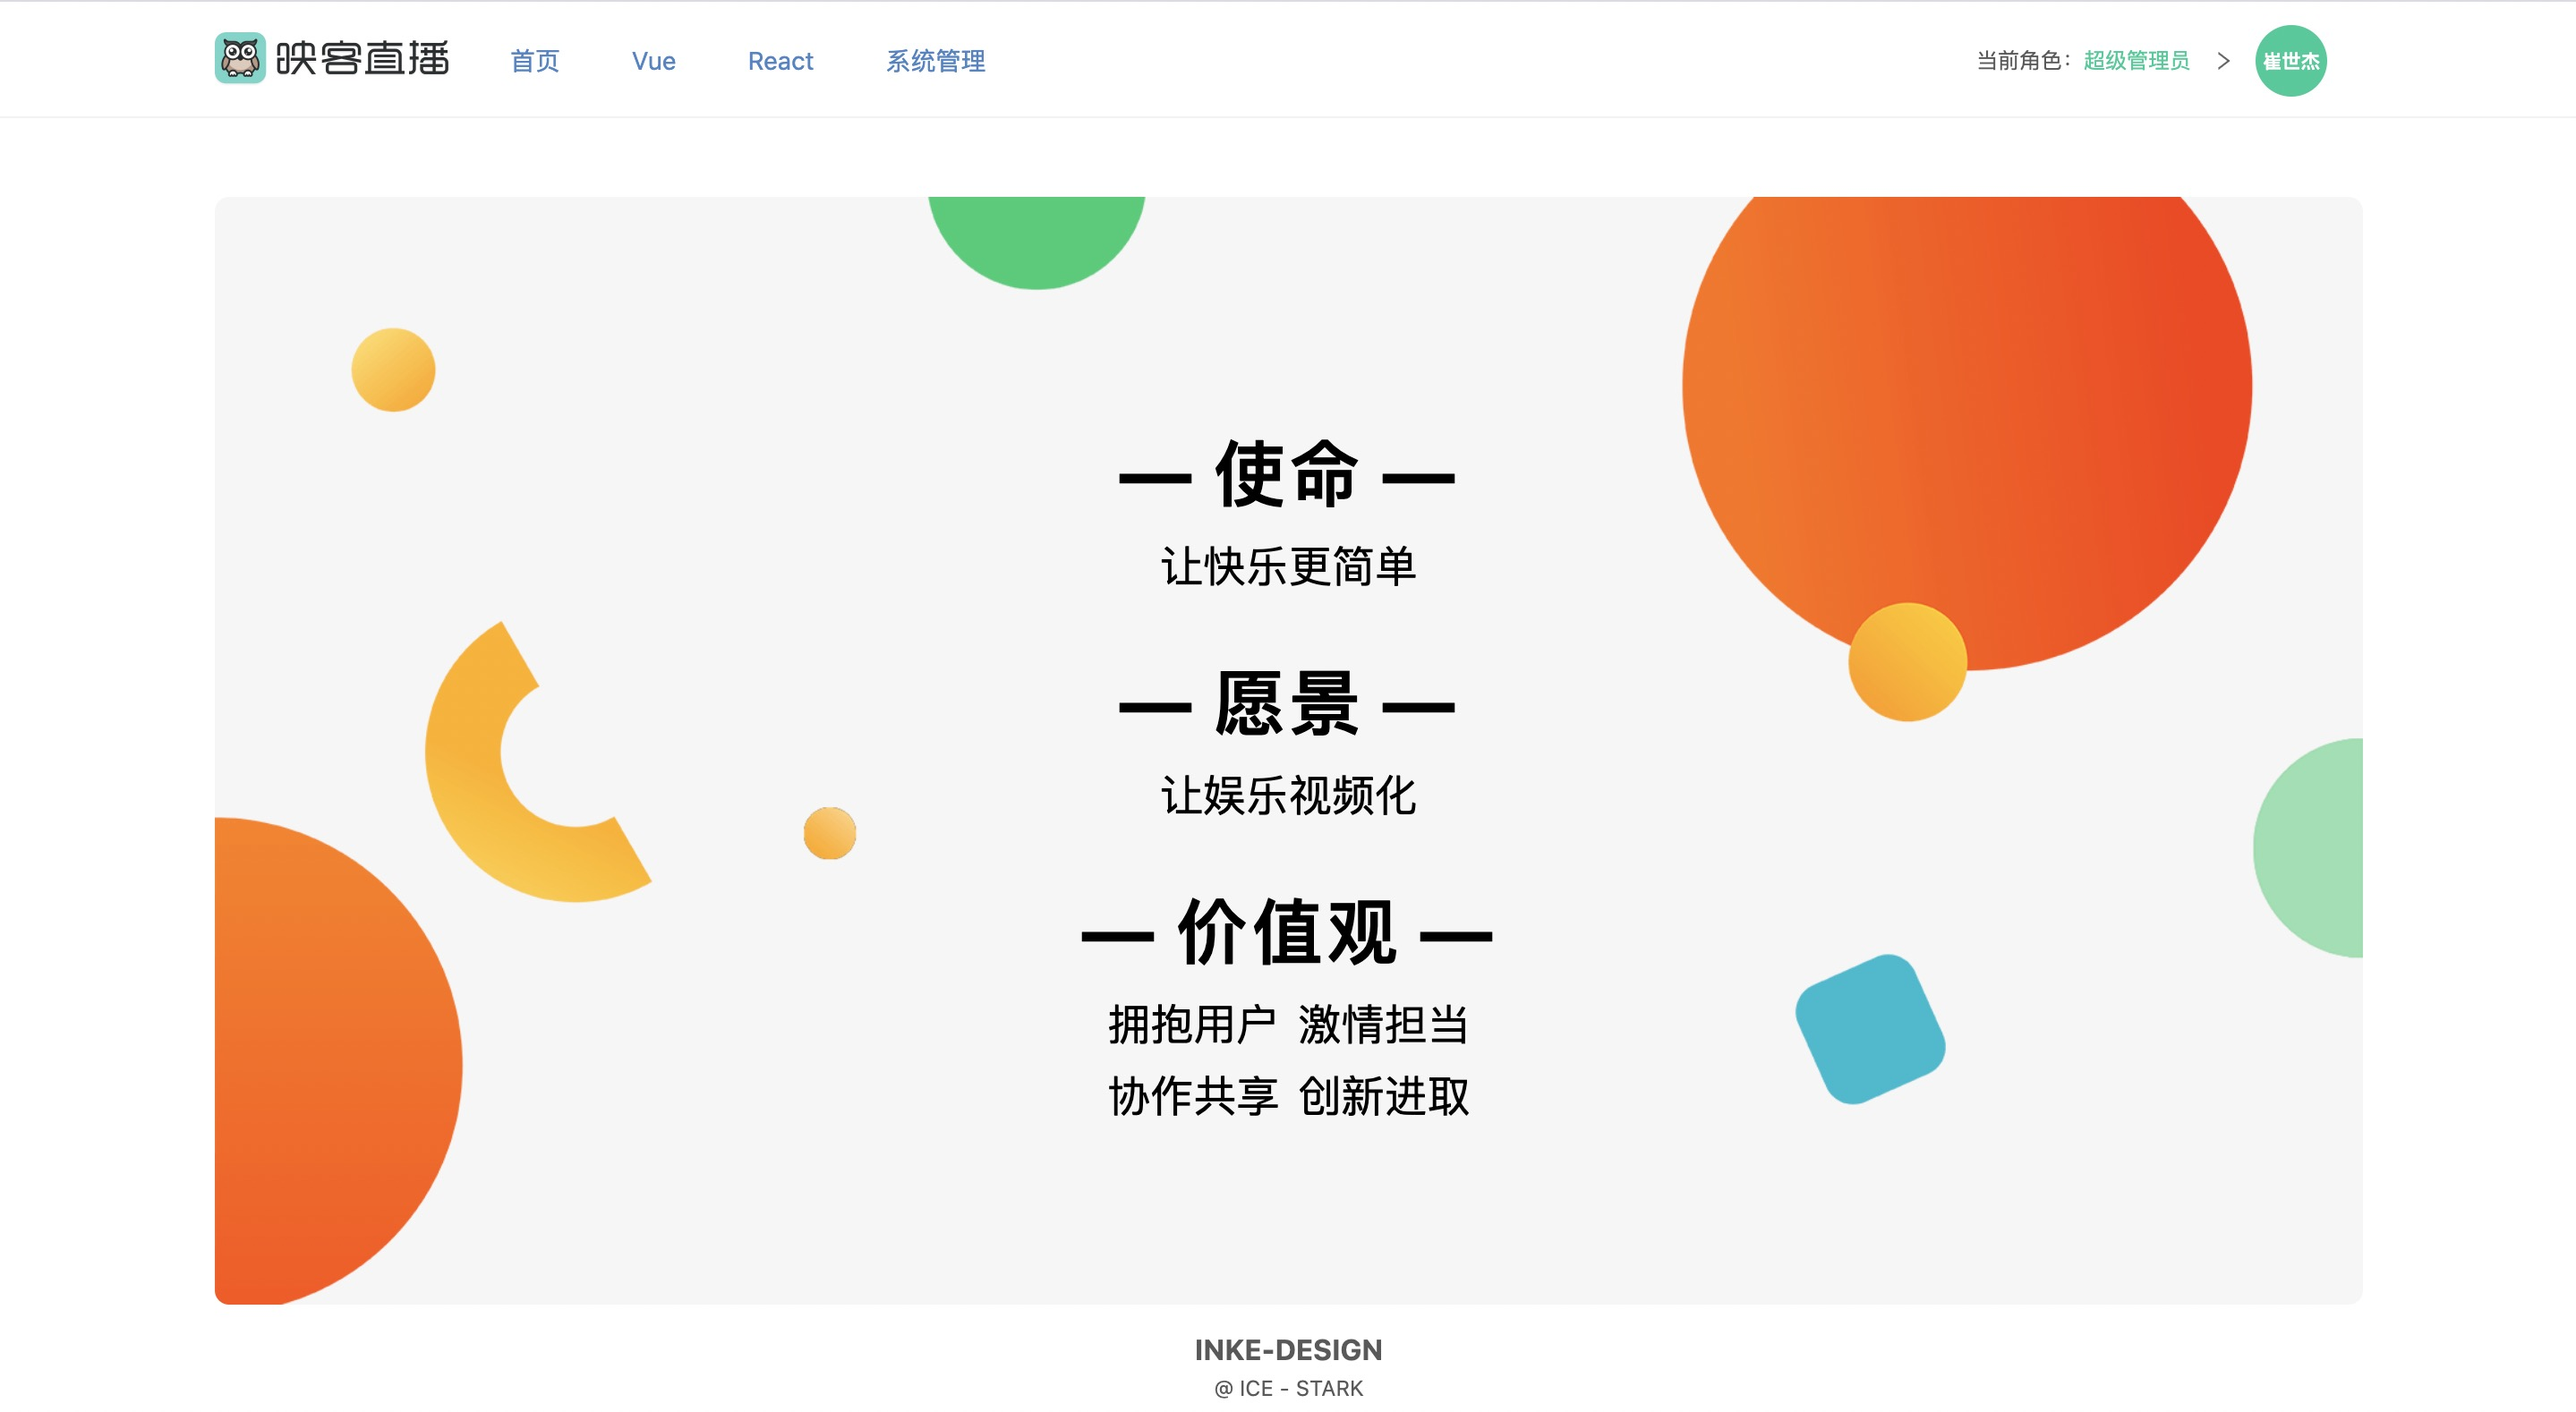
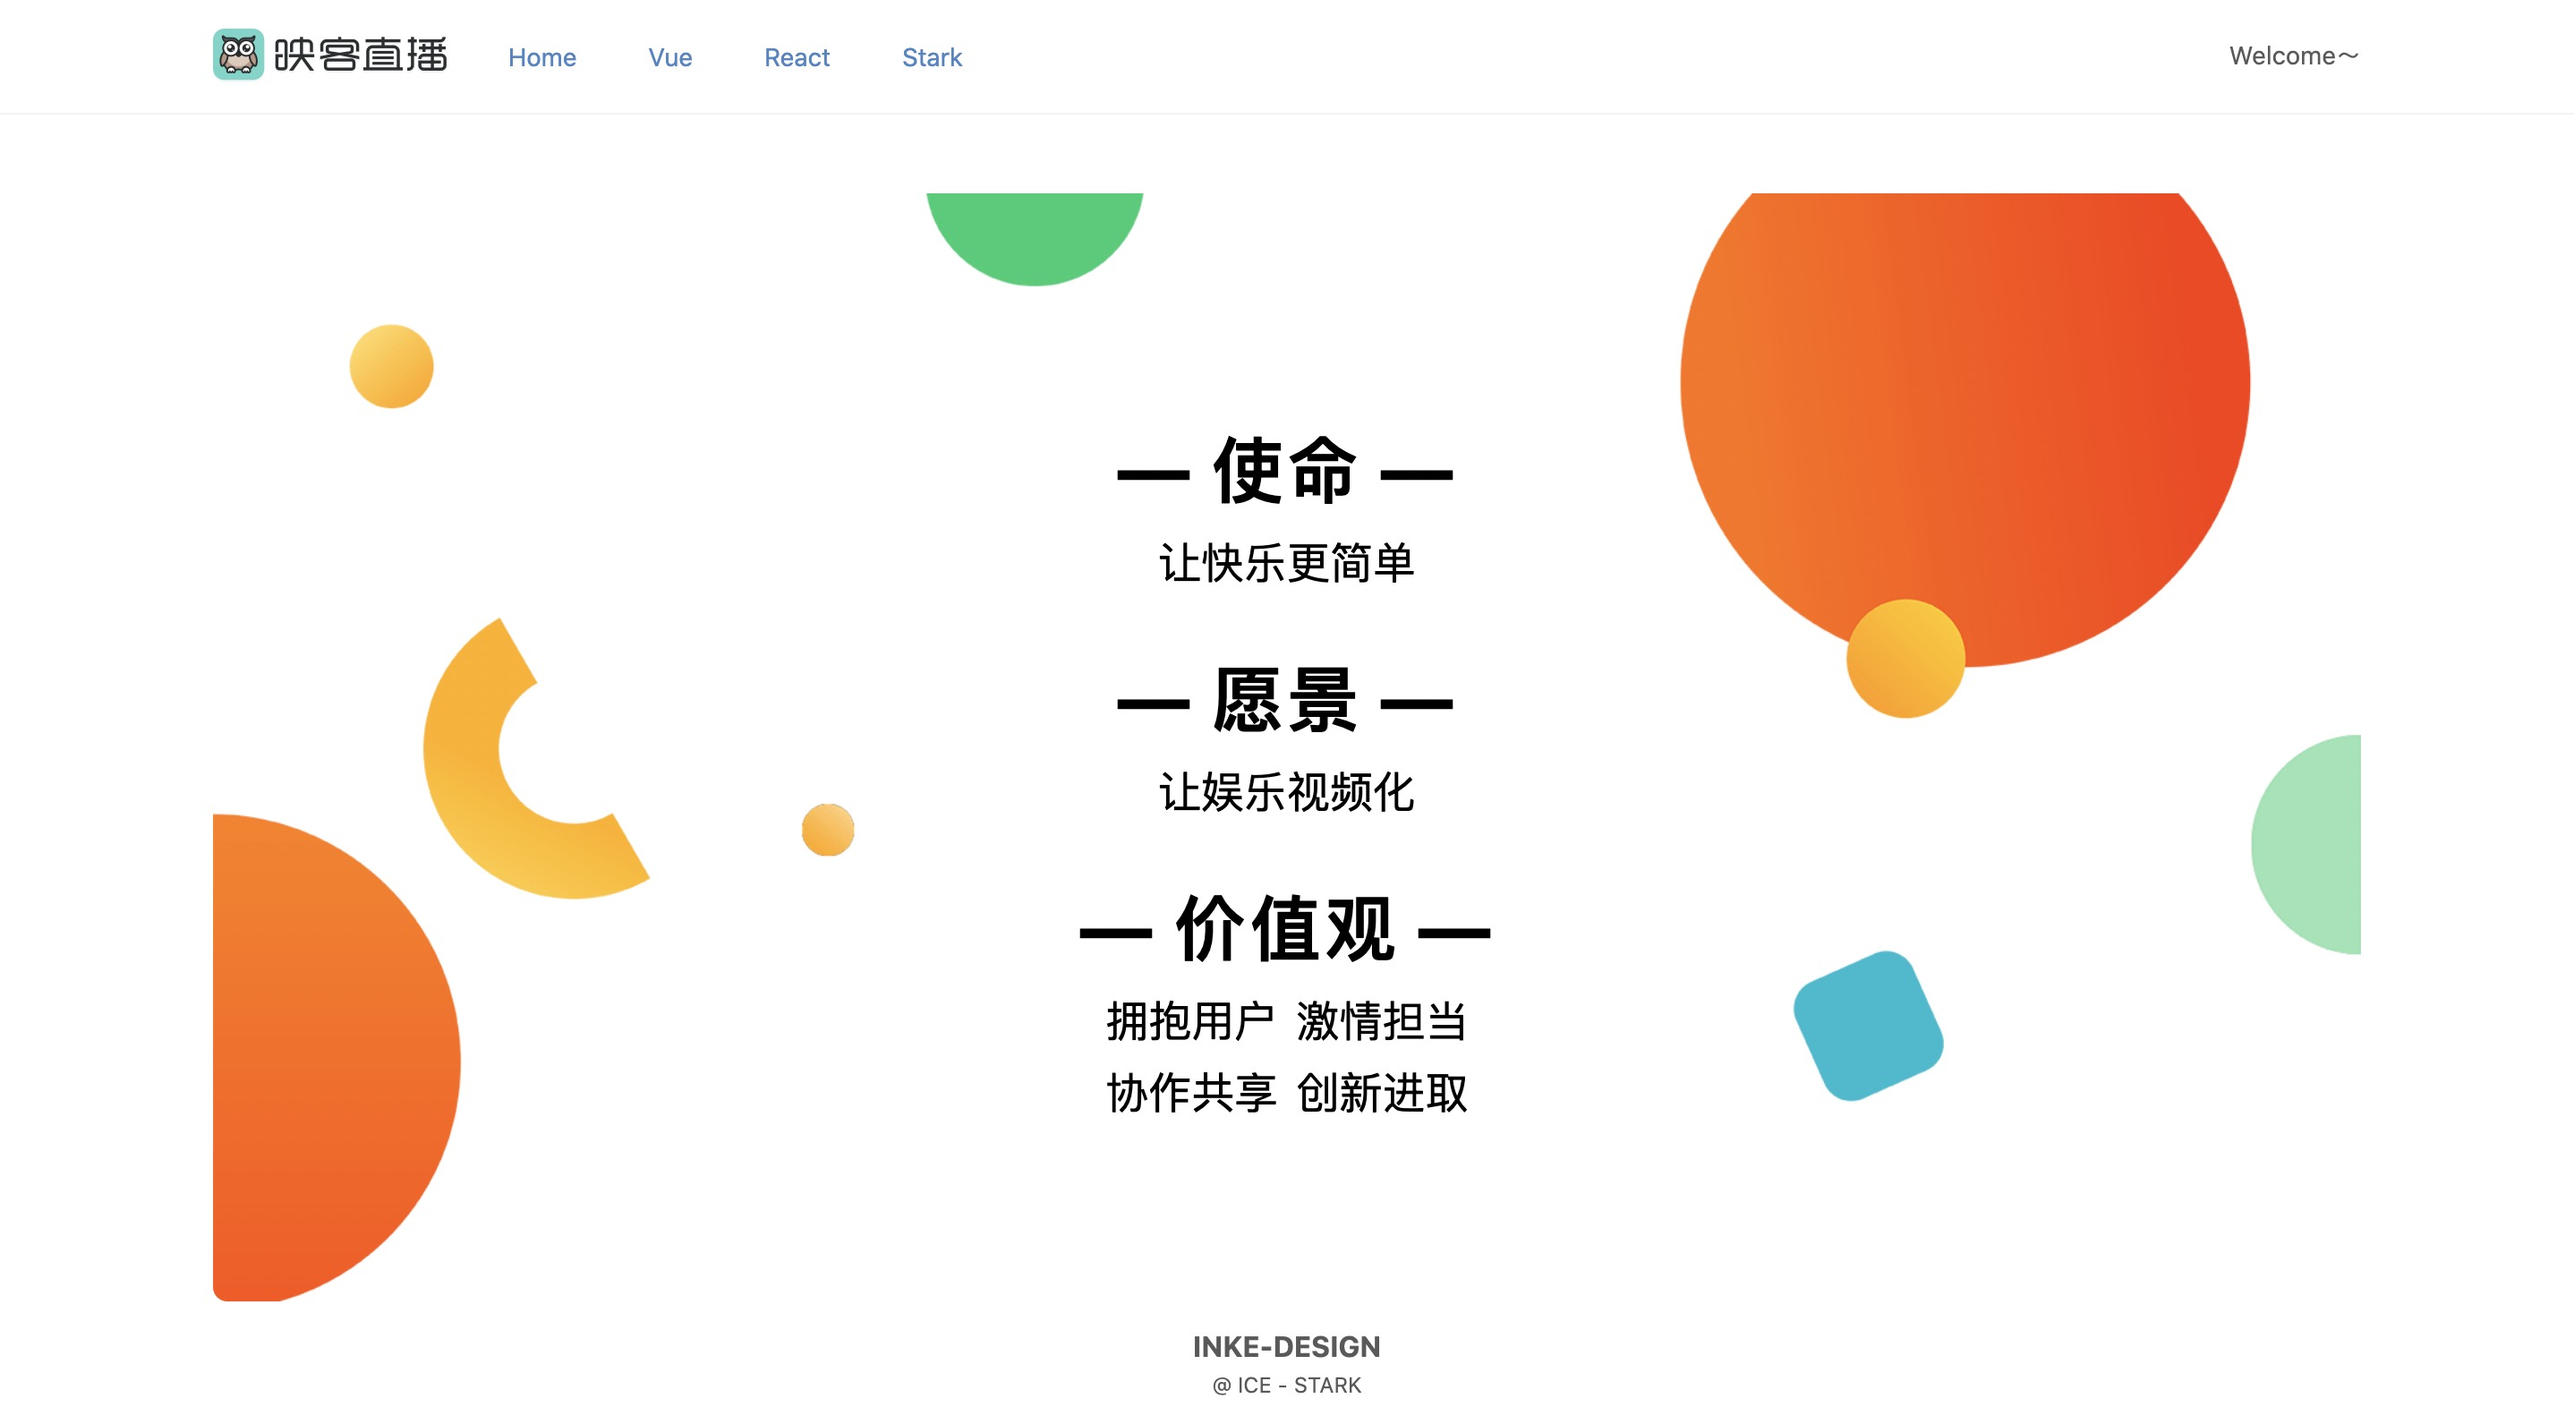
feat: 更新 README.md

diff --git a/src/commonPage/Inside/index.js b/src/commonPage/Inside/index.js
@@ -1,4 +1,5 @@
 import React from 'react';
+import { Empty } from 'antd';
 
 class index extends React.Component {
   constructor(props) {
@@ -11,7 +12,9 @@ class index extends React.Component {
   render() {
     return (
       <div>
-        x
+        <Empty
+          description="this can be any inside page"
+        />
       </div>
     );
   }

diff --git a/src/layouts/BasicLayout/components/Header/Header.jsx b/src/layouts/BasicLayout/components/Header/Header.jsx
@@ -15,7 +15,7 @@ class MHeader extends PureComponent {
   render () {
     return (
       <Header style={{ background: '#fff', padding: '0' }} className={`${classPrefix}`} >
-        欢迎
+        Welcome～
         <style>{`
           .ant-menu-submenu-horizontal > .ant-menu {
             width: 120px

diff --git a/src/app.tsx b/src/app.tsx
@@ -30,7 +30,7 @@ const appConfig = {
     getApps: async () => {
       const apps = [
       {
-        path: '/vue-app',
+        path: '/vue',
         title: 'Vue',
         sandbox: false,
         // Angular app demo: https://github.com/ice-lab/icestark-child-apps/tree/master/child-common-angular-9 

diff --git a/src/layouts/BasicLayout/menuConfig.ts b/src/layouts/BasicLayout/menuConfig.ts
@@ -20,7 +20,7 @@ const asideMenuConfig = [
   },
   {
     name: 'Vue',
-    path: '/vue-app',
+    path: '/vue',
     icon: 'atm',
   },{
     name: 'React',

diff --git a/README.md b/README.md
@@ -4,9 +4,9 @@
 
 ## 导读
 
-基于飞冰的微前端架构，适用于inke内部多框架集成。
+基于飞冰的微前端架构，架构内支持子应用类型为 工程化框架react, 工程化框架vue,模板引擎vue
 
-接入了rabc权限系统、用户信息模块、业务代理、公共布局、SSO单点登陆、消息总线等逻辑。
+接入消息总线模块、沙箱隔离、公共组件、应用代理、一键打包等模块
 
 让开发专心于业务，开箱即用。
 
@@ -15,20 +15,20 @@
 创建项目和接入项目之前，请先
 
 - [了解飞冰](https://ice.work/)
-- [映客接入飞冰规则](https://wiki.inkept.cn/pages/viewpage.action?pageId=41773307)
-- [映客飞冰物料](https://code.inke.cn/opd/fe-aws/ikice-materials/tree/master/react-materials/blocks/AntdFilterTable/src)
+- [飞冰物料](https://ice.work/docs/materials/about)
 - [@ice/stark](https://ice.work/docs/icestark/reference/api)
 
 以保证顺利开发。
 
 ## 架构导图
 
-![screenshot](https://img.ikstatic.cn/MTU5MjgxMDEwMjU0NyM1NDQjanBn.jpg)
+![screenshot](https://img.ikstatic.cn/MTU5NTQ5MTAwMTY0NCMyMjQjcG5n.png)
 
 ## 如何使用项目？
 
-- 安装依赖: `npm run i-all`
+- 安装依赖: `npm run i-all / npm run i-all:cnpm`
 - 全局启动: `npm run start`
+- 打包: `npm run build`
 - 独立启动应用模板: `npm run start-react`
 
 ## 如何接入应用
@@ -47,21 +47,15 @@
 
 ## 业务模块如何接入
 
-如需要编写**新**的业务模块，请先下载运行 [映客飞冰物料](https://code.inke.cn/opd/fe-aws/ikice-materials/tree/master/react-materials/blocks/AntdFilterTable/src)，熟悉代码逻辑，其中包含**vue**、react业务物料进行选择。
-
-如需要迁移**老**的业务木块进入，可将原业务文件夹复制至应用pages目录下, 按照以下步骤修改。
+如需要迁移**老**的业务模块进入，可将原业务文件夹复制至应用pages目录下, 按照以下步骤修改。
 
 1. [./build.json](./build.json) 配置代理
 2. 配至应用内部路由,
-    - react[./apps/react-icestark-child-16/src/router.jsx](./apps/react-icestark-child-16/src/router.jsx) 
-    - vue[./apps/vue-icestark-child/src/router/routes/index.js](./apps/vue-icestark-child/src/router/routes/index.js)
+    - react[./apps/react-apps/src/router.jsx](./apps/react-apps/src/router.jsx) 
+    - vue[./apps/vue-apps/src/router/routes/index.js](./apps/vue-apps/src/router/routes/index.js)
 3. 配置状态管理
-    - react [./apps/react-icestark-child-16/src/store/reducer.js](./apps/react-icestark-child-16/src/store/reducer.js)
-    - vue[./apps/vue-icestark-child/src/store/index.js](./apps/vue-icestark-child/src/store/index.js)
-
-将公共方法和公共组件提取至[inke-design](http://ide.hnmlw.cn/docs/react/introduce)中进行复用。
-
-具体接入方法请参照[introduce](http://ide.hnmlw.cn/docs/react/introduce)
+    - react [./apps/react-apps/src/store/reducer.js](./apps/react-apps/src/store/reducer.js)
+    - vue[./apps/vue-apps/src/store/index.js](./apps/vue-apps/src/store/index.js)
 
 ## 如何传递状态
 
@@ -110,8 +104,8 @@ npm run build
 
 <pre style="font-size: 12px">
 apps                        <span style="color: #007947">// 应用文件</span>
-  |-- react-icestark-child-16   <span style="color: #007947">// react16应用接入模版</span>
-  |-- vue-icestark-child        <span style="color: #007947">// vue应用接入模版</span>
+  |-- react-apps            <span style="color: #007947">// react16应用接入模版</span>
+  |-- vue-apps              <span style="color: #007947">// vue应用接入模版</span>
 build                       <span style="color: #007947">// 包文件</span>
 public                      <span style="color: #007947">// 公共文件</span>
 scripts                     <span style="color: #007947">// 脚本文件夹</span>
@@ -124,8 +118,6 @@ src
     |-- index               <span style="color: #007947">// 入口初始化</span>
     |-- service-auth        <span style="color: #007947">// 权限接口拦截器</span>
     |-- service-intercept   <span style="color: #007947">// 业务拦截器</span>
-    |-- ticket-replace      
-    |-- user-init           <span style="color: #007947">// 用户信息获取</span>
   |-- layouts               <span style="color: #007947">// stark配置目录</span>
     |-- BasicLayout         <span style="color: #007947">// 原始布局</span>
     |-- FrameworkLayout     <span style="color: #007947">// 嵌入布局</span>
@@ -157,17 +149,12 @@ tsconfig.json               <span style="color: #007947">// typescript 根目录
 ## 注意事项
 
 - 架构如有修改，请维护README.md 让架构更加优秀。
-- 接入过程中如有问题，请钉钉联系 [崔世杰](dingtalk://dingtalkclient/action/sendmsg)
-
-## redux物料使用
-1. [@inke-design/compile](https://wiki.inkept.cn/pages/viewpage.action?pageId=106883602)
-2. npm install @inke-design/compile -g
-3. 在业务目录比如（pages）下运行 `inke-design materials <fileName>` 即可将物料拉取;
+- 接入过程中如有问题，请邮件联系 cuishijie@inke.cn
 
 
 ## 效果图
 
-![screenshot](https://img.ikstatic.cn/MTU5MjgwOTEyMzg2MSM1MDUjanBn.jpg)
+![screenshot](https://img.ikstatic.cn/MTU5NTQ5Mjk0OTI0NiMyMTAjanBn.jpg)
 
 
 ## 常见问题
@@ -183,11 +170,3 @@ tsconfig.json               <span style="color: #007947">// typescript 根目录
 2. 业务接口代理名称重复了怎么办？
 
 答： 匹配规则请延长一些，尽量区分不一样的业务，以后会上动态代理模块。
-
-## 辅助参考
-
-1. [运营后台权限接入](https://wiki.inkept.cn/pages/viewpage.action?pageId=55946806)
-2. [React 异步引入组件](https://reactjs.org/docs/code-splitting.html#reactlazy)
-3. [常见图表 Api 使用说明](https://wiki.inkept.cn/pages/viewpage.action?pageId=67387957)
-4. [inke-design武库](http://ide.hnmlw.cn/)
-5. [question&answer文档库](http://qa.hnmlw.cn/#/index?_k=96u2dp)
